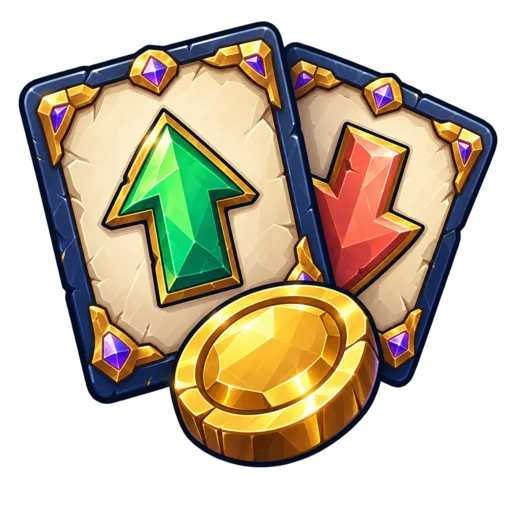
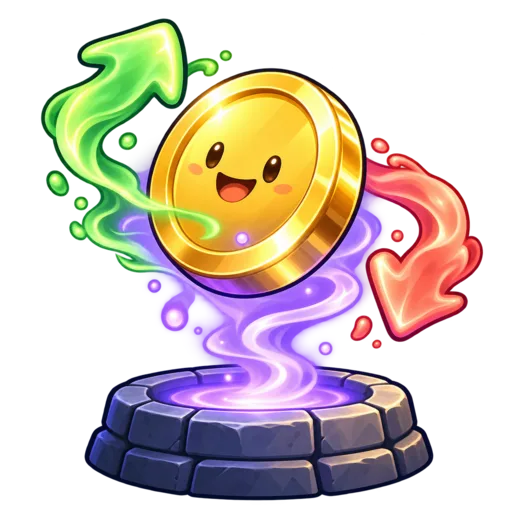
feat(frontend): add coin spirit and champion character art

diff --git a/frontend/public/assets/landing/ASSETS.md b/frontend/public/assets/landing/ASSETS.md
@@ -4,12 +4,12 @@ Generated with the built-in image generation tool. All images are original gener
 
 The shared art direction is hand-painted toon/cel shading, heavy navy outlines, top-left lighting, purple crystal magic and gold rewards. Atmospheric cloud and light effects deliberately soften the contour. The season banner is opaque; all other assets have real alpha transparency.
 
-Scope update: the coordinator held all four player avatars pending a new character brief; none are included. The existing play-cards quest illustration is retained under the coordinator's explicit exception for that asset; its cards have directional arrows, no suits or pips.
+The X2 update replaces the former drafting-card illustration with a summoned coin spirit while retaining `play-cards.webp` for compatibility. Four characters now include full-body billboard sprites and matching portrait busts; portraits were generated using the corresponding full-body sprite as the identity reference. No card or casino imagery remains in the current assets.
 
 | File | Size in px | KB | Purpose | Prompt used |
 |---|---:|---:|---|---|
 | `deposit-chest.webp` | 512 × 512 | 51.68 | Deposit quest: crystal-backed deposit chest | Create one production game inventory illustration: deposit treasure chest, heavy navy iron bands, warmly polished wood, lid slightly ajar with a faceted violet crystal glowing within and three plain gold coins at its foot. Arena Jitu cohesive style: premium hand-painted toon/cel shading, chunky rounded forms, crisp heavy #0B1626 outlines equivalent to 5px at 512px, light from upper left, warm #FFC93C highlights, purple magic #836EF9 and #C4B8FF, navy #10213D shadows. Three-quarter view, square composition, whole object centered with 10% clear padding. Truly transparent background, no floor or cast shadow beyond object. No text, lettering, logos, branded coins, religious symbols or buildings, dice, slots, roulette or gambling imagery. Target 512x512. |
-| `play-cards.webp` | 512 × 512 | 44.38 | Play quest: directional drafting cards and plain coin | Arena Jitu premium illustrated strategy game asset. Hand-painted toon/cel shading, chunky rounded forms, crisp heavy #0B1626 outlines equivalent to 5px at 512px, upper-left key light, #FFC93C gold highlights, #836EF9 and #C4B8FF purple crystal magic, #10213D navy shadows. Match the cohesive dark-outlined polished wood-and-metal treasure-chest game art style. No text, letters, numbers, logos, branded coins, religious symbols or buildings, dice, slots, roulette or gambling imagery. Entire subject within frame with 10% clear padding. Two fanned strategy drafting cards with thick navy frames and parchment faces, one showing a single bold green upward arrow and the other a coral downward arrow; one unbranded gold coin in front. Not traditional playing cards: no suits or pips. Square 512x512 illustration, transparent background. |
+| `play-cards.webp` | 512 × 512 | 53.96 | Play quest: friendly coin spirit summoned from a stone podium with up/down wisps | Arena Jitu premium hand-painted toon/cel-shaded game illustration, chunky rounded forms, crisp heavy #0B1626 navy outlines (5px equivalent at 512px), top-left warm key light, navy #10213D shadows, polished gold #FFC93C, purple magic #836EF9 and #C4B8FF. Truly transparent background. No text, letters, numbers, real logos, religious symbols, cards, casino chips, dice, felt, slots or casino cues. Square 512x512 quest illustration: a friendly golden coin spirit with two tiny eyes and a smile rising in a purple aura from a small round stone podium. Generic thick solid gold coin, no logo. A green upward arrow-shaped wisp and coral downward arrow-shaped wisp curl around it, clearly separate. Entire object in frame with 8% padding. |
 | `claim-treasure.webp` | 512 × 512 | 60.15 | Claim quest: earned gold and crystal rewards | Arena Jitu premium illustrated strategy game asset. Hand-painted toon/cel shading, chunky rounded forms, crisp heavy #0B1626 outlines equivalent to 5px at 512px, upper-left key light, #FFC93C gold highlights, #836EF9 and #C4B8FF purple crystal magic, #10213D navy shadows. Match the cohesive dark-outlined polished wood-and-metal treasure-chest game art style. No text, letters, numbers, logos, branded coins, religious symbols or buildings, dice, slots, roulette or gambling imagery. Entire subject within frame with 10% clear padding. An open polished wooden treasure chest with heavy navy metal bands, overflowing with many plain unbranded gold coins and one violet faceted crystal among the coins. Lid fully raised, joyous abundance, three-quarter view. Square 512x512 illustration, transparent background. |
 | `no-entry-fee.webp` | 256 × 256 | 11.30 | Arena rule: no entry fee | Arena Jitu premium illustrated strategy game asset. Hand-painted toon/cel shading, chunky rounded forms, crisp heavy #0B1626 outlines equivalent to 5px at 512px, upper-left key light, #FFC93C gold highlights, #836EF9 and #C4B8FF purple crystal magic, #10213D navy shadows. Match the cohesive dark-outlined polished wood-and-metal treasure-chest game art style. No text, letters, numbers, logos, branded coins, religious symbols or buildings, dice, slots, roulette or gambling imagery. Entire subject within frame with 10% clear padding. One stylized admission ticket with scalloped ends, thick navy outline, warm pale-gold paper and a bold coral diagonal prohibition slash across it. Blank ticket, no writing. Clear readable game rules icon. Square 256x256, transparent background. |
 | `principal-safe.webp` | 256 × 256 | 16.01 | Arena rule: principal protection | Arena Jitu premium illustrated strategy game asset. Hand-painted toon/cel shading, chunky rounded forms, crisp heavy #0B1626 outlines equivalent to 5px at 512px, upper-left key light, #FFC93C gold highlights, #836EF9 and #C4B8FF purple crystal magic, #10213D navy shadows. Match the cohesive dark-outlined polished wood-and-metal treasure-chest game art style. No text, letters, numbers, logos, branded coins, religious symbols or buildings, dice, slots, roulette or gambling imagery. Entire subject within frame with 10% clear padding. One stout polished navy shield with a gold rim enclosing a large glowing violet faceted crystal, front three-quarter view, protective and sturdy, simple clear game rules icon. Square 256x256, truly transparent background. |
@@ -18,6 +18,15 @@ Scope update: the coordinator held all four player avatars pending a new charact
 | `sparkle.webp` | 128 × 128 | 1.63 | Additive light-mote sprite for the 3D arena | Arena Jitu premium illustrated strategy game asset. Hand-painted toon/cel shading, chunky rounded forms, crisp heavy #0B1626 outlines equivalent to 5px at 512px, upper-left key light, #FFC93C gold highlights, #836EF9 and #C4B8FF purple crystal magic, #10213D navy shadows. Match the cohesive dark-outlined polished wood-and-metal treasure-chest game art style. No text, letters, numbers, logos, branded coins, religious symbols or buildings, dice, slots, roulette or gambling imagery. Entire subject within frame with 10% clear padding. A single tiny luminous magic light-mote sprite, warm ivory center and lavender #C4B8FF falloff, one compact diamond-like glint embedded in a soft radial glow. Mostly transparent empty square, glow fades completely to alpha zero before all edges. Target 128x128 texture for additive blending in a 3D night arena. No dark outline on the light itself, no background, no black rectangle, no surrounding objects. |
 | `soft-cloud.webp` | 512 × 256 | 16.19 | Transparent atmospheric cloud sprite | Arena Jitu premium illustrated strategy game asset. Hand-painted toon/cel shading, chunky rounded forms, crisp heavy #0B1626 outlines equivalent to 5px at 512px, upper-left key light, #FFC93C gold highlights, #836EF9 and #C4B8FF purple crystal magic, #10213D navy shadows. Match the cohesive dark-outlined polished wood-and-metal treasure-chest game art style. No text, letters, numbers, logos, branded coins, religious symbols or buildings, dice, slots, roulette or gambling imagery. Entire subject within frame with 10% clear padding. One soft horizontally elongated cloud sprite for a stylized night game sky, billowing rounded lobes, slate-blue #7C86A8 shaded lower right, pale blue-lavender upper-left highlights, gentle semi-transparent feathered edges, mostly opaque softly cel-shaded central volume, no dark heavy contour on atmospheric vapor. Target 512x256 landscape 2:1, centered whole cloud with generous transparent padding, transparent background, no ground. |
 | `rune-ring.webp` | 1024 × 1024 | 248.17 | Top-down purple arena ring texture with invented geometric glyphs | Arena Jitu premium illustrated strategy game asset. Hand-painted toon/cel shading, chunky rounded forms, crisp heavy #0B1626 outlines equivalent to 5px at 512px, upper-left key light, #FFC93C gold highlights, #836EF9 and #C4B8FF purple crystal magic, #10213D navy shadows. Match the cohesive dark-outlined polished wood-and-metal treasure-chest game art style. No text, letters, numbers, logos, branded coins, religious symbols or buildings, dice, slots, roulette or gambling imagery. Entire subject within frame with 10% clear padding. Single flat circular magic rune ring viewed exactly top down, centered perfectly circular, not elliptical. Two thin concentric purple glowing rings surrounding sparse invented abstract geometric glyph marks (short disconnected bars, little rhombi and chevrons only), empty transparent center, transparent outside, no background. No pentagrams, hexagrams, crosses, real alphabet or religious symbols. Glow #836EF9 with #C4B8FF bright cores, controlled soft alpha falloff. Target square 1024x1024, 10% clear margin on all sides. A game arena floor effect texture. |
+| `avatar-bruno-bull.webp` | 512 × 768 | 94.46 | Full-body billboard — Bruno the Bull: gold/green optimistic bull knight; Buy and BOOST | Arena Jitu premium hand-painted toon/cel-shaded game illustration, chunky rounded forms, crisp heavy #0B1626 navy outlines (5px equivalent at 512px), top-left warm key light, navy #10213D shadows, polished gold #FFC93C, purple magic #836EF9 and #C4B8FF. Truly transparent background. No text, letters, numbers, real logos, religious symbols, cards, casino chips, dice, felt, slots or casino cues. Full body front-facing standing chibi anthropomorphic bull knight named Bruno, big confident stocky build, warm brown fur, cream horns, optimistic grin. Chunky gold armor, emerald-green cape and small upward-arrow motif embossed on chest, broad boots and gauntlets, hands confidently on hips. Friendly rival champion, no weapon. Portrait canvas 2:3 target 512x768. Entire horns and feet visible, character centered, soles aligned near bottom center with only 3% transparent margin underneath, 8% top margin. No ground, no pedestal, no cast shadow. |
+| `portrait-bruno-bull.webp` | 256 × 256 | 20.75 | Player-panel bust — Bruno the Bull: gold/green optimistic bull knight; Buy and BOOST | Arena Jitu premium hand-painted toon/cel-shaded game illustration, chunky rounded forms, crisp heavy #0B1626 navy outlines (5px equivalent at 512px), top-left warm key light, navy #10213D shadows, polished gold #FFC93C, purple magic #836EF9 and #C4B8FF. Truly transparent background. No text, letters, numbers, real logos, religious symbols, cards, casino chips, dice, felt, slots or casino cues. Create a square portrait bust of the EXACT SAME character in the supplied full-body reference. Preserve identity, face, species, expression, clothing, palette, outlines and upper-left light. Show full head including all horns/hair/ears and shoulders to upper chest, centered portrait composition, large readable face, 8% transparent padding above and to sides. Target 256x256. Transparent background with clean silhouette, no background halo, frame or vignette. Keep identifying chest accessory or cloak clasp visible. Only change framing to bust portrait, do not redesign the character. Reference: avatar-bruno-bull.webp character design. |
+| `avatar-bera-bear.webp` | 512 × 768 | 79.58 | Full-body billboard — Bera the Bear: ice-blue bear guardian; defensive Sell, INSURANCE and FREEZE | Arena Jitu premium hand-painted toon/cel-shaded game illustration, chunky rounded forms, crisp heavy #0B1626 navy outlines (5px equivalent at 512px), top-left warm key light, navy #10213D shadows, polished gold #FFC93C, purple magic #836EF9 and #C4B8FF. Truly transparent background. No text, letters, numbers, real logos, religious symbols, cards, casino chips, dice, felt, slots or casino cues. Full body front-facing standing chibi anthropomorphic bear guardian named Bera, stocky cuddly cream-white bear with calm patient smile, ice-blue cloak, navy under-tunic, chunky blue boots, holds stout pale-blue shield with a simple ice-crystal snowflake motif. Blue accent palette, quiet defensive confidence. Portrait canvas 2:3 target 512x768. Entire ears and feet visible, character centered, soles aligned near bottom center with only 3% transparent margin underneath, 8% top margin. No ground, no pedestal, no cast shadow. |
+| `portrait-bera-bear.webp` | 256 × 256 | 18.89 | Player-panel bust — Bera the Bear: ice-blue bear guardian; defensive Sell, INSURANCE and FREEZE | Arena Jitu premium hand-painted toon/cel-shaded game illustration, chunky rounded forms, crisp heavy #0B1626 navy outlines (5px equivalent at 512px), top-left warm key light, navy #10213D shadows, polished gold #FFC93C, purple magic #836EF9 and #C4B8FF. Truly transparent background. No text, letters, numbers, real logos, religious symbols, cards, casino chips, dice, felt, slots or casino cues. Create a square portrait bust of the EXACT SAME character in the supplied full-body reference. Preserve identity, face, species, expression, clothing, palette, outlines and upper-left light. Show full head including all horns/hair/ears and shoulders to upper chest, centered portrait composition, large readable face, 8% transparent padding above and to sides. Target 256x256. Transparent background with clean silhouette, no background halo, frame or vignette. Keep identifying chest accessory or cloak clasp visible. Only change framing to bust portrait, do not redesign the character. Reference: avatar-bera-bear.webp character design. |
+| `avatar-dex-degen.webp` | 512 × 768 | 83.68 | Full-body billboard — Dex the Degen: coral/purple fox trickster; FLIP and SWAP | Arena Jitu premium hand-painted toon/cel-shaded game illustration, chunky rounded forms, crisp heavy #0B1626 navy outlines (5px equivalent at 512px), top-left warm key light, navy #10213D shadows, polished gold #FFC93C, purple magic #836EF9 and #C4B8FF. Truly transparent background. No text, letters, numbers, real logos, religious symbols, cards, casino chips, dice, felt, slots or casino cues. Full body front-facing standing chibi anthropomorphic fox trickster named Dex, coral-orange fur, cream muzzle, huge expressive ears, mischievous grin, fluffy tail curled to one side, purple short cape and navy tunic with coral trim, boots. Two small solid plain gold coins swirl near one hand with purple sparks suggesting a flip or swap, no coin logos. Entire ears, tail and feet visible. Portrait canvas 2:3 target 512x768. Centered upright standing pose, soles 3% above bottom, 8% top margin. NO backdrop glow or halo behind character: everything outside character and small sparks must be alpha zero, no ground or shadow. |
+| `portrait-dex-degen.webp` | 256 × 256 | 17.21 | Player-panel bust — Dex the Degen: coral/purple fox trickster; FLIP and SWAP | Arena Jitu premium hand-painted toon/cel-shaded game illustration, chunky rounded forms, crisp heavy #0B1626 navy outlines (5px equivalent at 512px), top-left warm key light, navy #10213D shadows, polished gold #FFC93C, purple magic #836EF9 and #C4B8FF. Truly transparent background. No text, letters, numbers, real logos, religious symbols, cards, casino chips, dice, felt, slots or casino cues. Create a square portrait bust of the EXACT SAME character in the supplied full-body reference. Preserve identity, face, species, expression, clothing, palette, outlines and upper-left light. Show full head including all horns/hair/ears and shoulders to upper chest, centered portrait composition, large readable face, 8% transparent padding above and to sides. Target 256x256. Transparent background with clean silhouette, no background halo, frame or vignette. Keep identifying chest accessory or cloak clasp visible. Only change framing to bust portrait, do not redesign the character. Reference: avatar-dex-degen.webp character design. |
+| `avatar-hero.webp` | 512 × 768 | 57.35 | Full-body billboard — The Challenger: gender-neutral purple-caped adventurer with a crystal shard | Arena Jitu premium hand-painted toon/cel-shaded game illustration, chunky rounded forms, crisp heavy #0B1626 navy outlines (5px equivalent at 512px), top-left warm key light, navy #10213D shadows, polished gold #FFC93C, purple magic #836EF9 and #C4B8FF. Truly transparent background. No text, letters, numbers, real logos, religious symbols, cards, casino chips, dice, felt, slots or casino cues. Full body front-facing standing chibi gender-neutral young adventurer, warm medium-brown skin, short tousled dark hair, expressive brown eyes and determined friendly smile, purple cape, practical navy tunic with violet trims, brown leather belt and boots. Holding one small irregular faceted purple crystal shard in a cupped hand at chest level, geometric mineral only, not a logo; other hand relaxed. Young courageous Challenger. Portrait canvas 2:3 target 512x768. Entire hair and feet visible, centered upright standing pose, soles 3% above bottom, 8% top margin. NO backdrop glow or halo behind character: everything outside character must be alpha zero, no ground or shadow. |
+| `portrait-hero.webp` | 256 × 256 | 16.78 | Player-panel bust — The Challenger: gender-neutral purple-caped adventurer with a crystal shard | Arena Jitu premium hand-painted toon/cel-shaded game illustration, chunky rounded forms, crisp heavy #0B1626 navy outlines (5px equivalent at 512px), top-left warm key light, navy #10213D shadows, polished gold #FFC93C, purple magic #836EF9 and #C4B8FF. Truly transparent background. No text, letters, numbers, real logos, religious symbols, cards, casino chips, dice, felt, slots or casino cues. Create a square portrait bust of the EXACT SAME character in the supplied full-body reference. Preserve identity, face, species, expression, clothing, palette, outlines and upper-left light. Show full head including all horns/hair/ears and shoulders to upper chest, centered portrait composition, large readable face, 8% transparent padding above and to sides. Target 256x256. Transparent background with clean silhouette, no background halo, frame or vignette. Keep identifying chest accessory or cloak clasp visible. Only change framing to bust portrait, do not redesign the character. Reference: avatar-hero.webp character design. |
+
 
 ## Integration notes
 
@@ -25,3 +34,5 @@ Scope update: the coordinator held all four player avatars pending a new charact
 - The sparkle is intended for additive blending; the cloud is intended for ordinary alpha blending. Keep depth writing disabled for transparent scene sprites.
 - The ring is a top-down texture with an empty center; rotate its plane into the arena floor.
 - Contact sheet (local review artifact, not committed): `frontend/.screenshots/x1/contact-sheet.png`.
+- Full-body sprites use a 512 × 768 canvas with feet near bottom center; align billboards by their bottom center. Portraits are 256 × 256 with transparent bust silhouettes.
+- Updated contact sheet (local review artifact, not committed): `frontend/.screenshots/x2/contact-sheet.png`.
